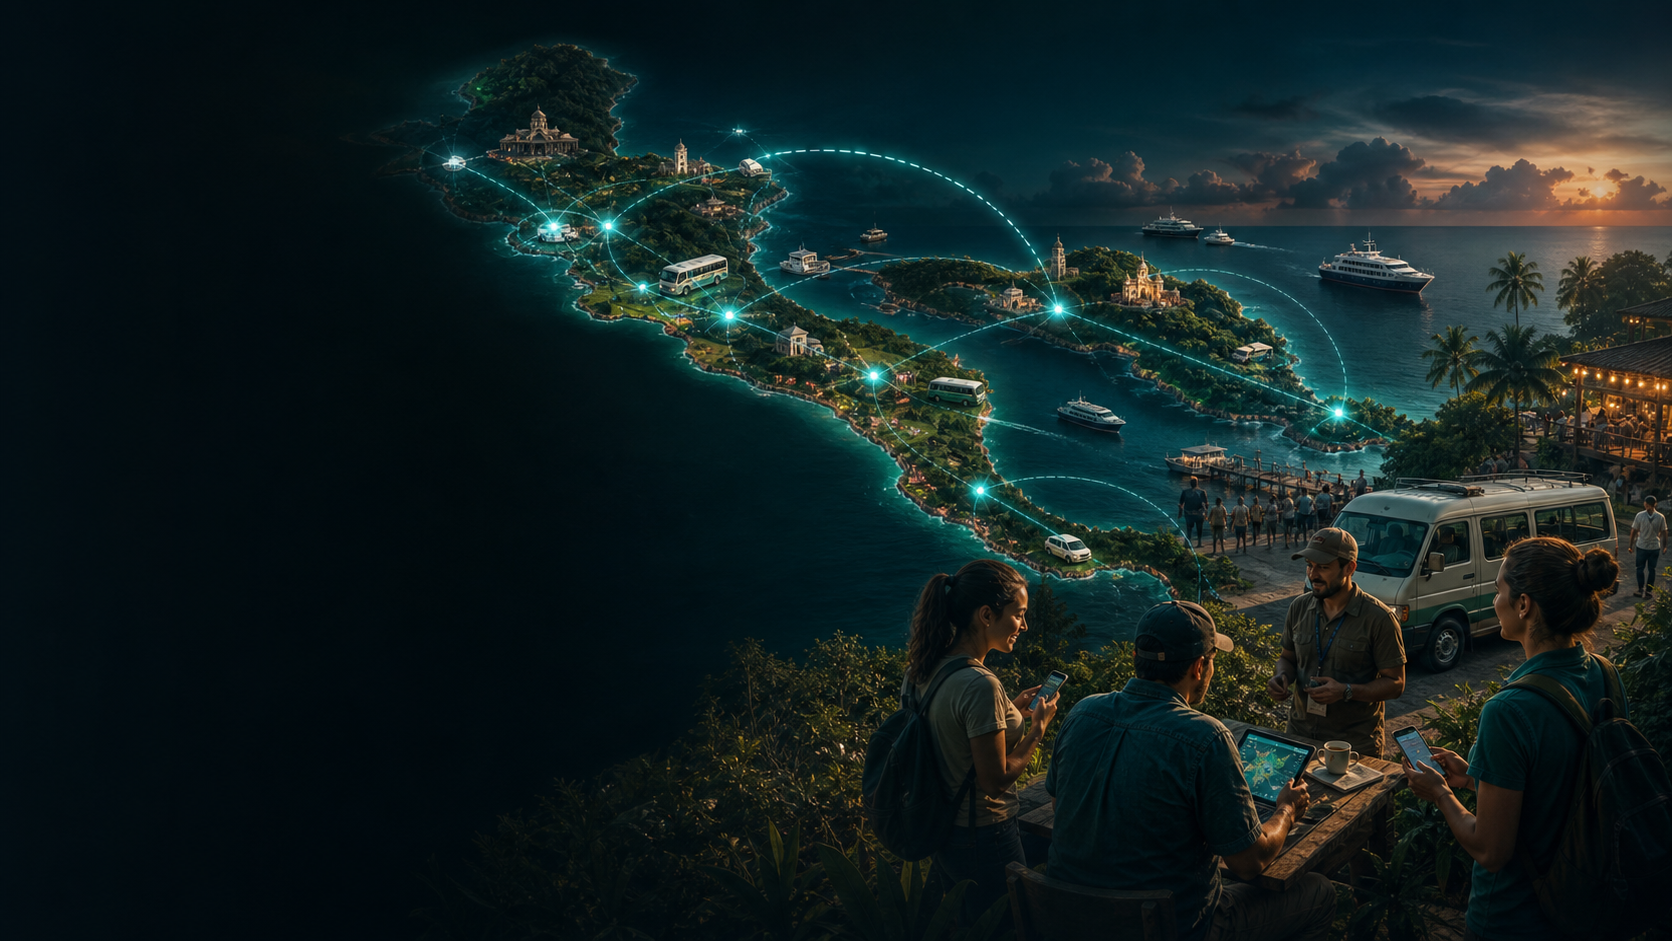
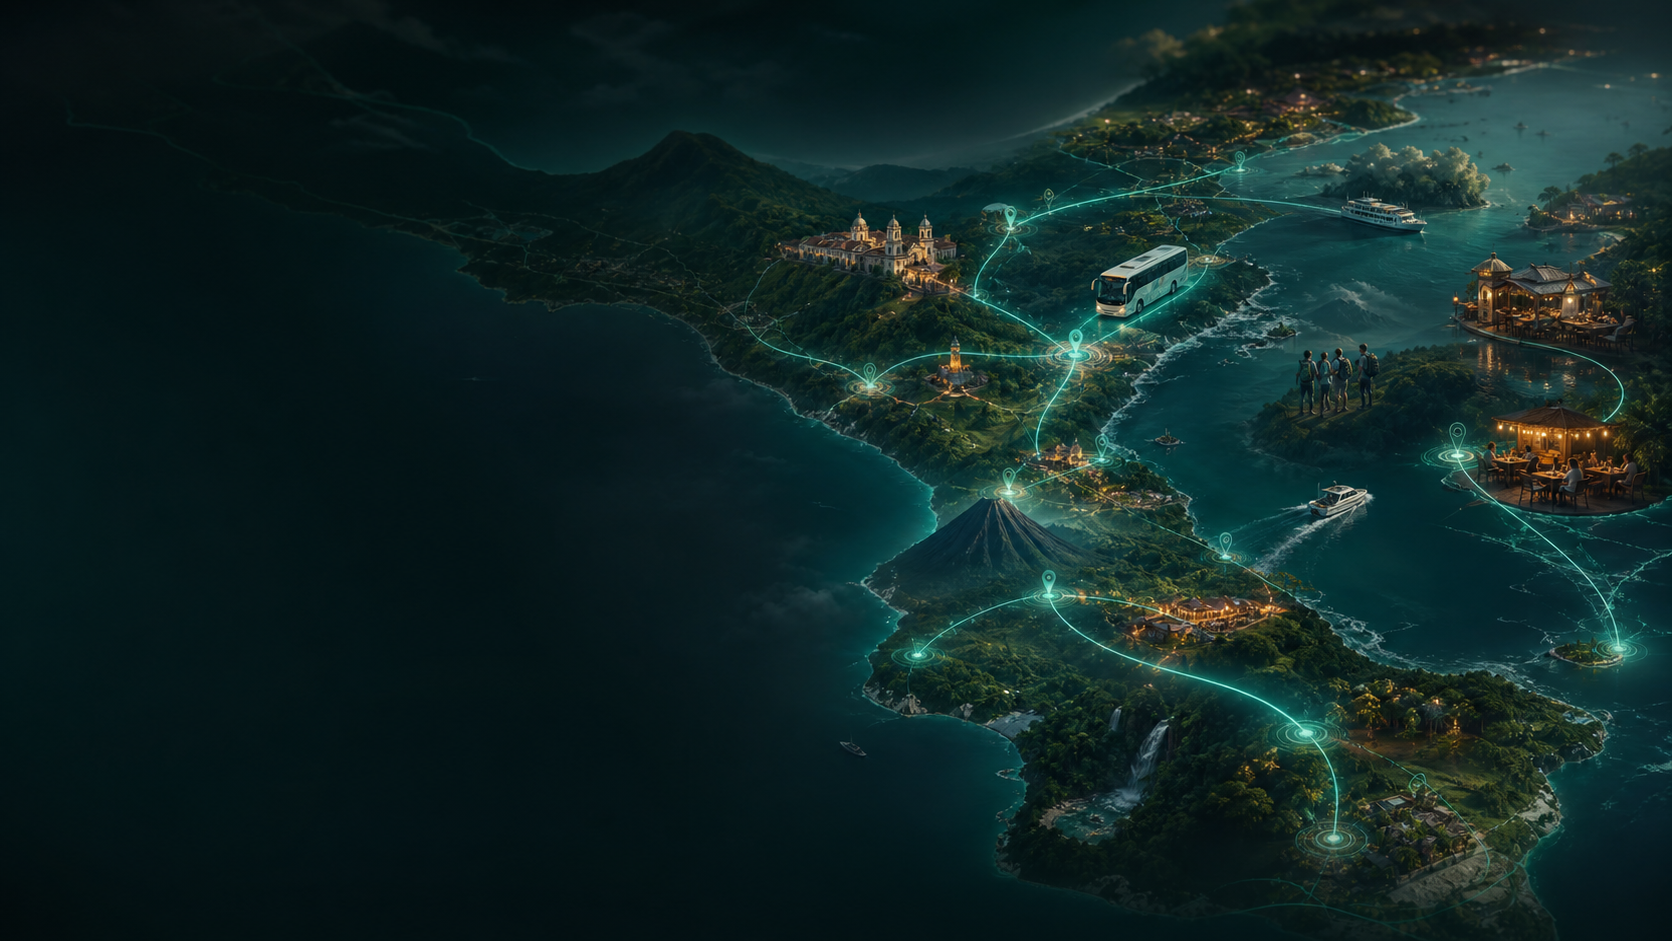
Increase roadmap background visibility

diff --git a/webtecaigo-landing/index.html b/webtecaigo-landing/index.html
@@ -2072,8 +2072,8 @@ p {
   z-index: 1;
   pointer-events: none;
   background:
-    linear-gradient(90deg, rgba(2, 9, 9, 0.94), rgba(2, 9, 9, 0.72) 46%, rgba(2, 9, 9, 0.88)),
-    linear-gradient(180deg, rgba(2, 9, 9, 0.92), rgba(2, 9, 9, 0.34) 45%, rgba(2, 9, 9, 0.94));
+    linear-gradient(90deg, rgba(2, 9, 9, 0.78), rgba(2, 9, 9, 0.45) 48%, rgba(2, 9, 9, 0.7)),
+    linear-gradient(180deg, rgba(2, 9, 9, 0.74), rgba(2, 9, 9, 0.14) 45%, rgba(2, 9, 9, 0.78));
 }
 
 .roadmap-section .section-shell {
@@ -2106,8 +2106,8 @@ p {
   width: 100%;
   height: 100%;
   object-fit: cover;
-  opacity: 0.34;
-  filter: saturate(0.85) contrast(1.08) brightness(0.62);
+  opacity: 0.72;
+  filter: saturate(1.02) contrast(1.08) brightness(0.82);
 }
 
 .roadmap-device-wall {
@@ -2117,7 +2117,7 @@ p {
   display: flex;
   gap: clamp(12px, 2vw, 26px);
   align-items: flex-end;
-  opacity: 0.7;
+  opacity: 0.44;
 }
 
 .roadmap-device {
@@ -2140,7 +2140,7 @@ p {
   width: min(46vw, 720px);
   border: 1px solid rgba(94, 214, 218, 0.22);
   border-radius: 8px;
-  opacity: 0.58;
+  opacity: 0.42;
   box-shadow: 0 28px 90px rgba(0, 0, 0, 0.56);
 }
 
@@ -2151,7 +2151,7 @@ p {
   width: min(52vw, 820px);
   height: min(38vw, 520px);
   min-height: 300px;
-  opacity: 0.82;
+  opacity: 0.52;
 }
 
 .region-route {
@@ -2230,9 +2230,9 @@ p {
 .roadmap li {
   min-height: 260px;
   padding: 26px;
-  background: rgba(8, 23, 21, 0.82);
-  backdrop-filter: blur(12px);
-  -webkit-backdrop-filter: blur(12px);
+  background: rgba(8, 23, 21, 0.68);
+  backdrop-filter: blur(8px);
+  -webkit-backdrop-filter: blur(8px);
 }
 
 .roadmap span {
@@ -2707,15 +2707,15 @@ p {
 
   .roadmap-section::after {
     background:
-      linear-gradient(180deg, rgba(2, 9, 9, 0.96), rgba(2, 9, 9, 0.7) 42%, rgba(2, 9, 9, 0.96)),
-      linear-gradient(90deg, rgba(2, 9, 9, 0.9), rgba(2, 9, 9, 0.72));
+      linear-gradient(180deg, rgba(2, 9, 9, 0.84), rgba(2, 9, 9, 0.46) 42%, rgba(2, 9, 9, 0.9)),
+      linear-gradient(90deg, rgba(2, 9, 9, 0.72), rgba(2, 9, 9, 0.42));
   }
 
   .roadmap-device-wall {
     right: -22px;
     bottom: 5%;
     gap: 10px;
-    opacity: 0.48;
+    opacity: 0.3;
   }
 
   .roadmap-device {
@@ -2727,7 +2727,7 @@ p {
     right: -80px;
     bottom: 8%;
     width: 520px;
-    opacity: 0.38;
+    opacity: 0.28;
   }
 
   .central-america-region {
@@ -2736,7 +2736,7 @@ p {
     width: 520px;
     height: 330px;
     min-height: 0;
-    opacity: 0.5;
+    opacity: 0.34;
   }
 
   .region-country {

diff --git a/webtecaigo-landing/styles.css b/webtecaigo-landing/styles.css
@@ -2055,8 +2055,8 @@ p {
   z-index: 1;
   pointer-events: none;
   background:
-    linear-gradient(90deg, rgba(2, 9, 9, 0.94), rgba(2, 9, 9, 0.72) 46%, rgba(2, 9, 9, 0.88)),
-    linear-gradient(180deg, rgba(2, 9, 9, 0.92), rgba(2, 9, 9, 0.34) 45%, rgba(2, 9, 9, 0.94));
+    linear-gradient(90deg, rgba(2, 9, 9, 0.78), rgba(2, 9, 9, 0.45) 48%, rgba(2, 9, 9, 0.7)),
+    linear-gradient(180deg, rgba(2, 9, 9, 0.74), rgba(2, 9, 9, 0.14) 45%, rgba(2, 9, 9, 0.78));
 }
 
 .roadmap-section .section-shell {
@@ -2089,8 +2089,8 @@ p {
   width: 100%;
   height: 100%;
   object-fit: cover;
-  opacity: 0.34;
-  filter: saturate(0.85) contrast(1.08) brightness(0.62);
+  opacity: 0.72;
+  filter: saturate(1.02) contrast(1.08) brightness(0.82);
 }
 
 .roadmap-device-wall {
@@ -2100,7 +2100,7 @@ p {
   display: flex;
   gap: clamp(12px, 2vw, 26px);
   align-items: flex-end;
-  opacity: 0.7;
+  opacity: 0.44;
 }
 
 .roadmap-device {
@@ -2123,7 +2123,7 @@ p {
   width: min(46vw, 720px);
   border: 1px solid rgba(94, 214, 218, 0.22);
   border-radius: 8px;
-  opacity: 0.58;
+  opacity: 0.42;
   box-shadow: 0 28px 90px rgba(0, 0, 0, 0.56);
 }
 
@@ -2134,7 +2134,7 @@ p {
   width: min(52vw, 820px);
   height: min(38vw, 520px);
   min-height: 300px;
-  opacity: 0.82;
+  opacity: 0.52;
 }
 
 .region-route {
@@ -2213,9 +2213,9 @@ p {
 .roadmap li {
   min-height: 260px;
   padding: 26px;
-  background: rgba(8, 23, 21, 0.82);
-  backdrop-filter: blur(12px);
-  -webkit-backdrop-filter: blur(12px);
+  background: rgba(8, 23, 21, 0.68);
+  backdrop-filter: blur(8px);
+  -webkit-backdrop-filter: blur(8px);
 }
 
 .roadmap span {
@@ -2690,15 +2690,15 @@ p {
 
   .roadmap-section::after {
     background:
-      linear-gradient(180deg, rgba(2, 9, 9, 0.96), rgba(2, 9, 9, 0.7) 42%, rgba(2, 9, 9, 0.96)),
-      linear-gradient(90deg, rgba(2, 9, 9, 0.9), rgba(2, 9, 9, 0.72));
+      linear-gradient(180deg, rgba(2, 9, 9, 0.84), rgba(2, 9, 9, 0.46) 42%, rgba(2, 9, 9, 0.9)),
+      linear-gradient(90deg, rgba(2, 9, 9, 0.72), rgba(2, 9, 9, 0.42));
   }
 
   .roadmap-device-wall {
     right: -22px;
     bottom: 5%;
     gap: 10px;
-    opacity: 0.48;
+    opacity: 0.3;
   }
 
   .roadmap-device {
@@ -2710,7 +2710,7 @@ p {
     right: -80px;
     bottom: 8%;
     width: 520px;
-    opacity: 0.38;
+    opacity: 0.28;
   }
 
   .central-america-region {
@@ -2719,7 +2719,7 @@ p {
     width: 520px;
     height: 330px;
     min-height: 0;
-    opacity: 0.5;
+    opacity: 0.34;
   }
 
   .region-country {
